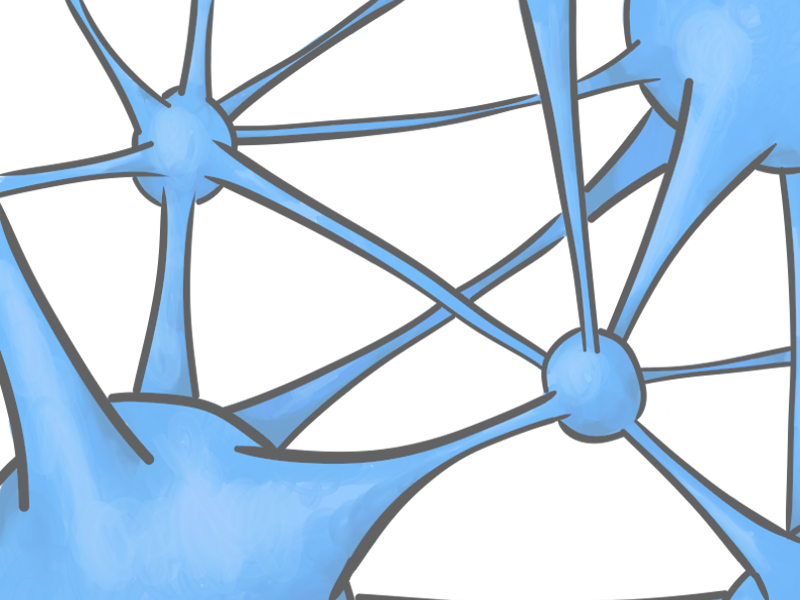
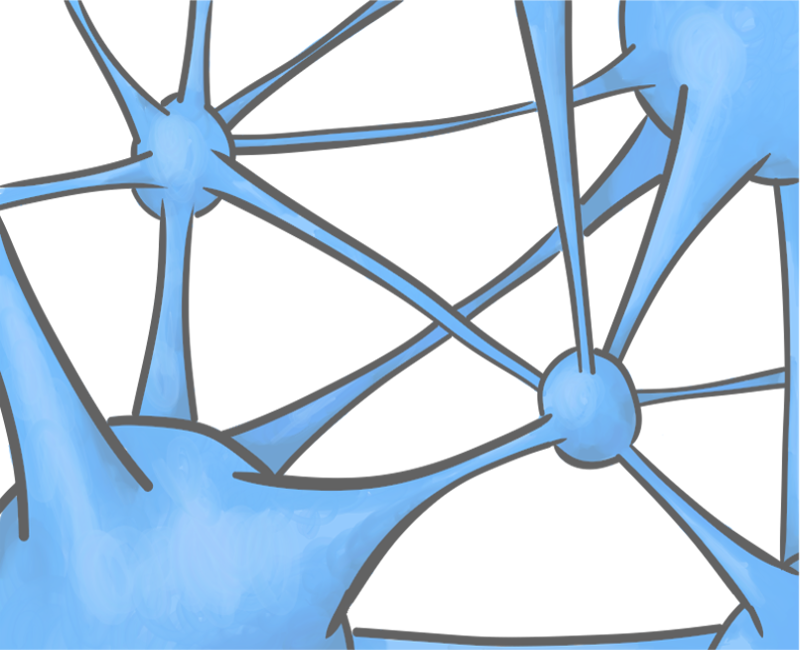
moving background images

diff --git a/level.py b/level.py
@@ -3,32 +3,21 @@ import os
 import pygame
 
 class Wall:
-<<<<<<< HEAD
-    def __init__(self, x, y, w, h, animated=None):
-=======
     def __init__(self, x, y, w, h):
->>>>>>> 566ea94f9c2ed3fd42fd167a5e780f14bf986e1c
         self.rect = pygame.Rect((x, y, w, h))
 
     def draw(self, display):
         pygame.draw.rect(display, (255,0,0), self.rect, 0)
 
 class Level:
-<<<<<<< HEAD
     def __init__(self, filename):
         self.platforms = []
         self.image = pygame.image.load(os.path.join('assets', filename)).convert_alpha()
         self.anims = {}
-=======
-    def __init__(self):
-        self.platforms = []
-        self.image = None
->>>>>>> 566ea94f9c2ed3fd42fd167a5e780f14bf986e1c
 
     def add_platform(self, platform):
         self.platforms.append(platform)
 
-<<<<<<< HEAD
     def add_animation(self, filename, z, mode, speed):
         ''' add an image to the list of images to
         animate. lower z-indices are drawn first '''
@@ -37,20 +26,21 @@ class Level:
                                 'pos': 0,
                                 'end': 0,
                                 'speed': speed,
-                                'dir': 1}
+                                'dir': -1}
         if mode == 'horizontal':
-            self.anims['end'] = self.anims['image'].get_width() - 800
+            self.anims[z]['end'] = - self.anims[z]['image'].get_width() + 800.0
         if mode == 'vertical':
-            self.anims['end'] = self.anims['image'].get_height() - 600
+            self.anims[z]['end'] = - self.anims[z]['image'].get_height() + 600.0
 
     def animate(self, dt):
-        for anim in self.anims:
-            if anim['pos'] == anim['end']:
-                anim['dir'] *= -1
-            anim['pos'] += anim['speed'] * dt * anim['dir']
+        for a in self.anims:
+            if self.anims[a]['pos'] <= self.anims[a]['end'] or self.anims[a]['pos'] > 0:
+                self.anims[a]['dir'] *= -1
+            self.anims[a]['pos'] += self.anims[a]['speed'] * dt * self.anims[a]['dir']
 
     def draw(self, display):
         # draw background images
+        display.blit(self.image, (0,0))
         for i in range(len(self.anims)):
             if self.anims[i]['mode'] == 'vertical':
                 display.blit(self.anims[i]['image'], (0, self.anims[i]['pos']))
@@ -58,8 +48,5 @@ class Level:
                 display.blit(self.anims[i]['image'], (self.anims[i]['pos'], 0))
 
         # draw platforms
-=======
-    def draw(self, display):
->>>>>>> 566ea94f9c2ed3fd42fd167a5e780f14bf986e1c
         for plat in self.platforms:
             plat.draw(display)

diff --git a/game.py b/game.py
@@ -17,9 +17,12 @@ class Game:
         # create ideas
         #self.player = None
         # create level
-        self.level = Level()
+        self.level = Level('bg0.png')
         self.level.add_platform(Wall(0, 400, 500, 10))
         self.level.add_platform(Wall(150, 450, 500, 10))
+        self.level.add_animation('bg1.png', 0, 'vertical', 3.0)
+        self.level.add_animation('bg2.png', 1, 'horizontal', 1.0)
+
     def create_players(self):
         self.player = Idea('idea.png', 0, 300, 32, 32)
         self.player2 = Idea('idea.png', 200, 300, 32, 32)
@@ -32,16 +35,14 @@ class Game:
         self.num_ideas = len(self.ideas)
 
     def run(self):
-        #! MAKE LEVEL CLASS
-        level = pygame.image.load(os.path.join('assets', 'bg_pixelated.png'))
         self.create_players()
         while True:
             dt = self.clock.tick(self.fps) / 1000.0
             # check events
             self.events(dt)
             # draw and update
-            self.display.blit(level, (0,0))
             self.level.draw(self.display)
+            self.level.animate(dt)
             self.collisions()
             for idea in self.ideas:
                 idea.update(dt, self.level)

diff --git a/idea.py b/idea.py
@@ -65,6 +65,7 @@ class Idea:
                         self.fist_images[self.fist_frame],\
                         self.facing==-1, False),\
                         (self.fist_rect))
+        pygame.draw.rect(display, (0,0,255), (self.fist_rect))
 
     def physics(self, dt, level):
         ''' apply physics to the idea '''
